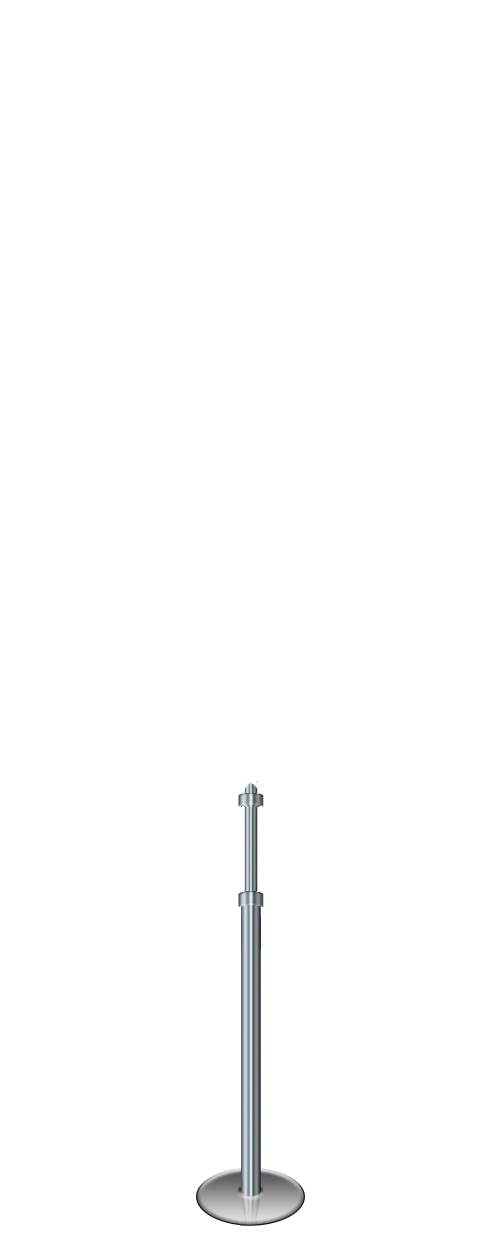
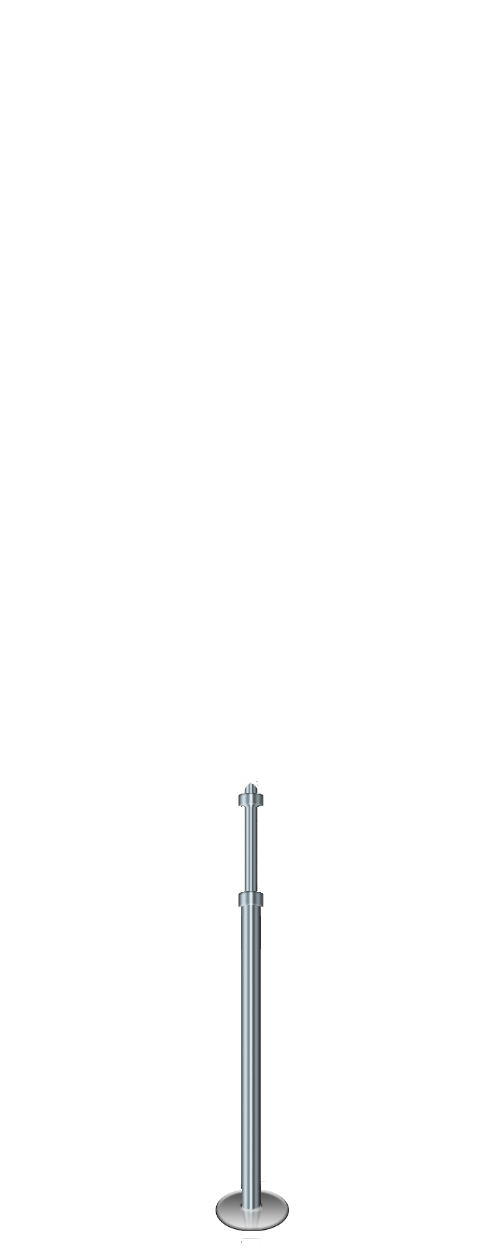
One bar prison fixes (#458)
-Fixed Issue with being able to force kneel when one bar
-Fixed issue with pony and mistress boots cutting off the bottom of the stand

Changed region(s): [[0.39, 0.936, 0.63, 0.9984]]

diff --git a/BondageClub/Assets/Female3DCG/Female3DCG.js b/BondageClub/Assets/Female3DCG/Female3DCG.js
@@ -222,8 +222,8 @@ var AssetFemale3DCG = [
 			{ Name: "Heels1", Height: 15 },
 			{ Name: "Heels2", Height: 15 },
 			{ Name: "Boots1", Height: 9 },
-			{ Name: "MistressBoots", Height: 35, Value: -1, HideItem: ["SocksSocks4", "SocksSocks5"], Alpha: [[125, 800, 250, 200]] },
-			{ Name: "PonyBoots", Height: 35, Value: -1, Alpha: [[125, 800, 250, 200]] },
+			{ Name: "MistressBoots", Height: 35, Value: -1, HideItem: ["SocksSocks4", "SocksSocks5"], Alpha: [[75, 800, 140, 200],[290, 800, 140, 200]] },
+			{ Name: "PonyBoots", Height: 35, Value: -1, Alpha: [[75, 800, 140, 200],[290, 800, 140, 200]] },
 			{ Name: "Sandals", Priority: 20, Height: 3, Value: 30, Hide: ["Socks"] },
 			{ Name: "PawBoots", Height: 3, Value: 45 },
 			{ Name: "WoollyBootsTall", Height: 9, Value: 60 }
@@ -1115,9 +1115,9 @@ var AssetFemale3DCG = [
 			{ Name: "WaterCell", RemoveAtLogin: true, Effect: ["Prone", "Enclose", "GagHeavy", "Freeze"], SetPose: ["Suspension", "LegsClosed"], Block: ["ItemFeet"], Value: -1, Time: 15, RemoveTime: 15, Difficulty: 5 },
 			{ Name: "Cage", RemoveAtLogin: true,  Alpha: [[1, 80, 105, 900], [410, 80, 105, 900]], Block: ["ItemArms", "ItemBreast", "ItemButt", "ItemEars", "ItemFeet", "ItemHands", "ItemHead", "ItemLegs", "ItemMisc", "ItemMouth", "ItemNeck", "ItemNeckAccessories", "ItemNipples", "ItemPelvis", "ItemTorso", "ItemVulva"], Effect: ["Block", "Prone", "Enclose", "Freeze"], Value: 120, Time: 15, RemoveTime: 10, Difficulty: 7, AllowLock: true, Prerequisite: "NotKneeling" },
 			{ Name: "LowCage", RemoveAtLogin: true, Alpha: [[1, 80, 75, 900], [400, 80, 95, 900]], Block: ["ItemArms", "ItemBreast", "ItemButt", "ItemEars", "ItemFeet", "ItemHands", "ItemHead", "ItemLegs", "ItemMisc", "ItemMouth", "ItemNeck", "ItemNeckAccessories", "ItemNipples", "ItemPelvis", "ItemTorso", "ItemVulva"], SetPose: ["Kneel"], Effect: ["ForceKneel", "Block", "Prone", "Enclose", "Freeze"], Value: 80, Time: 15, RemoveTime: 10, Difficulty: 7, AllowLock: true, Prerequisite: "NotSuspendedOrHorsed" },
-			{ Name: "SaddleStand", Height: 30, Value: 100, Time: 10, Difficulty: 5, AllowLock: false, SetPose: ["LegsOpen"], Prerequisite: "LegsOpen1", RemoveAtLogin: true, Block: ["ItemPelvis", "ItemLegs"], Effect: ["Prone", "Freeze"] },
+			{ Name: "SaddleStand", Height: 30, Value: 100, Time: 10, Difficulty: 5, AllowLock: false, SetPose: ["LegsOpen"], Prerequisite: "LegsOpen1", RemoveAtLogin: true, Block: ["ItemPelvis", "ItemLegs"], Effect: ["Prone", "Freeze", "Mounted"] },
 			{ Name: "TeddyBear", Priority: 27, IsRestraint: false, Extended: true, Difficulty: -10, Value: 50, Time: 5, Effect: [], AllowPose: ["TapedHands", "BackBoxTie", "BackCuffs", "BackElbowTouch", "Bolero", "Horse", "StraitDressOpen"], AllowType: ["Bear", "Fox", "Kitty", "Pup", "Bunny", "Pony"] },
-			{ Name: "OneBarPrison", Priority: 20, Value: 75, Time: 20, Difficulty: 15, AllowLock: false, SetPose: ["LegsOpen"], Prerequisite: "OBP", RemoveAtLogin: true, Block: ["ItemPelvis", "ItemLegs", "ItemVulva", "ItemFeet"], Effect: ["Prone", "Freeze"],
+			{ Name: "OneBarPrison", Priority: 15, Value: 75, Time: 20, Difficulty: 15, AllowLock: false, SetPose: ["LegsOpen"], Prerequisite: "OBP", RemoveAtLogin: true, Block: ["ItemPelvis", "ItemLegs", "ItemVulva", "ItemFeet"], Effect: ["Prone", "Freeze", "Mounted"],
 				Layer: [
 					{ Name: "Bar", AllowColorize: true },
 					{ Name: "Pussy", AllowColorize: false }

diff --git a/BondageClub/Scripts/Inventory.js b/BondageClub/Scripts/Inventory.js
@@ -114,7 +114,7 @@ function InventoryAllow(C, Prerequisite) {
 	
 	//Shackles and Manacles
 	if (Prerequisite == "Shackles" && InventoryGet(C, "ItemFeet") != null) { DialogSetText("MustFreeFeetFirst"); return false; }
-	if (Prerequisite == "Shackles" && (InventoryGet(C, "ItemDevices") != null) && (InventoryGet(C, "ItemDevices").Asset.Name == "SaddleStand")) { DialogSetText("CannotBeUsedWithSaddleStand"); return false; }
+	if (Prerequisite == "Shackles" && C.Effect.indexOf("Mounted") >= 0)  { DialogSetText("CannotBeUsedWhenMounted"); return false; }
 	if (Prerequisite == "Shackles" &&  C.Pose.indexOf("Suspension") >= 0)  { DialogSetText("TheyMustBeStandingFirst"); return false; }
 	if (Prerequisite == "Shackles" &&  C.Pose.indexOf("Horse") >= 0)  { DialogSetText("TheyMustBeStandingFirst"); return false; }
 	
@@ -132,9 +132,11 @@ function InventoryAllow(C, Prerequisite) {
 	if (Prerequisite == "Horse" &&  C.Effect.indexOf("Shackled") >= 0) { DialogSetText("RemoveShacklesFirst"); return false; }
 	if (Prerequisite == "CollaredNotSuspended1" && (InventoryGet(C, "ItemNeck") == null || C.Pose.indexOf("Suspension") >= 0)) { DialogSetText("MustCollaredFirstAndRemoveSuspension1"); return false; }
 	if (Prerequisite == "CollaredNotSuspended1" && (InventoryGet(C, "ItemNeck") == null || C.Pose.indexOf("Horse") >= 0)) { DialogSetText("MustCollaredFirstAndRemoveSuspension1"); return false; }
+	if (Prerequisite == "CollaredNotSuspended1" && (InventoryGet(C, "ItemNeck") == null || C.Effect.indexOf("Mounted") >= 0)) { DialogSetText("MustCollaredFirstAndRemoveSuspension1"); return false; }
 	if (Prerequisite == "NotSuspendedOrHorsed" && C.Pose.indexOf("Suspension") >= 0) { DialogSetText("TheyMustBeStandingFirst"); return false; }
 	if (Prerequisite == "NotSuspendedOrHorsed" && C.Pose.indexOf("Horse") >= 0) { DialogSetText("TheyMustBeStandingFirst"); return false; }
 	if (Prerequisite == "NotSuspendedOrHorsed" && (InventoryGet(C, "ItemFeet") != null) && (InventoryGet(C, "ItemFeet").Asset.Name == "SpreaderMetal")) { DialogSetText("CannotBeUsedWithFeetSpreader"); return false; }
+	if (Prerequisite == "NotSuspendedOrHorsed" && C.Effect.indexOf("Mounted") >= 0)  { DialogSetText("CannotBeUsedWhenMounted"); return false; }
 	return true;
 
 }
